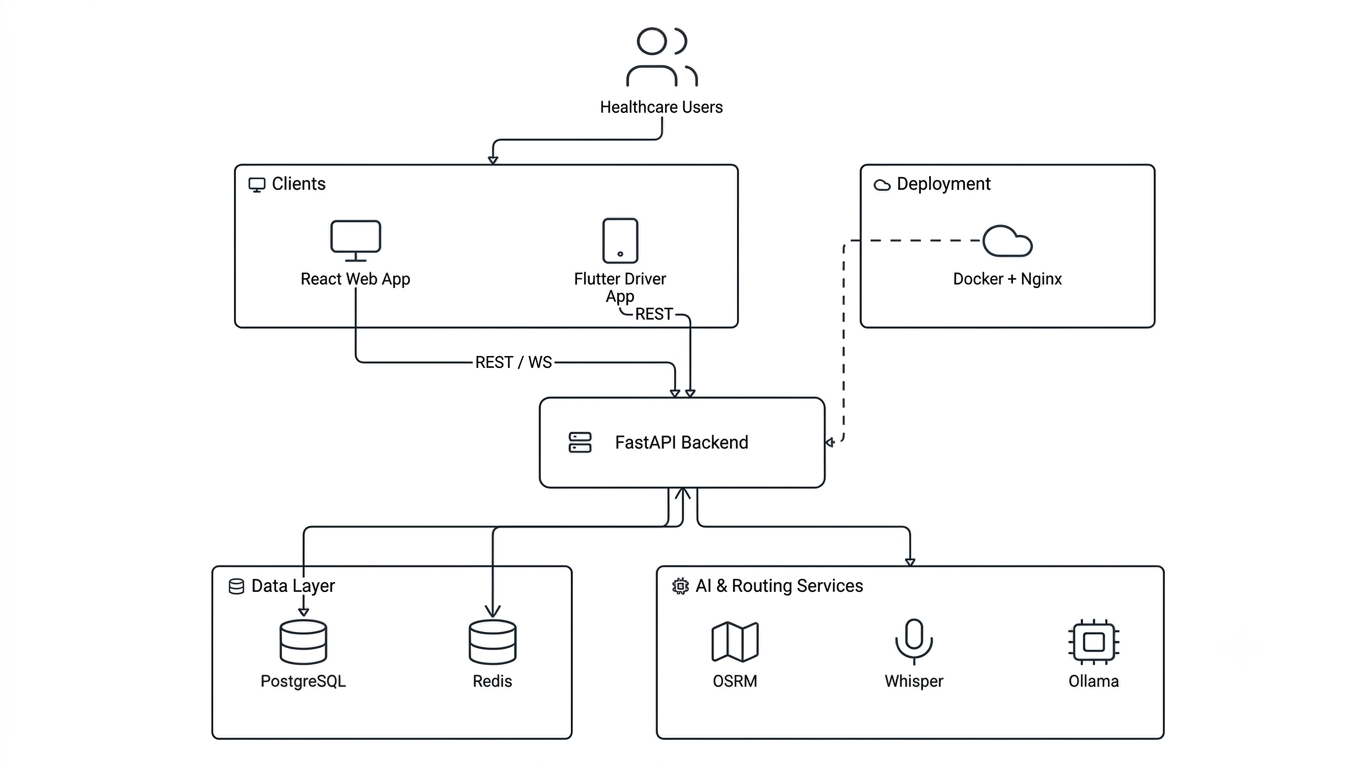
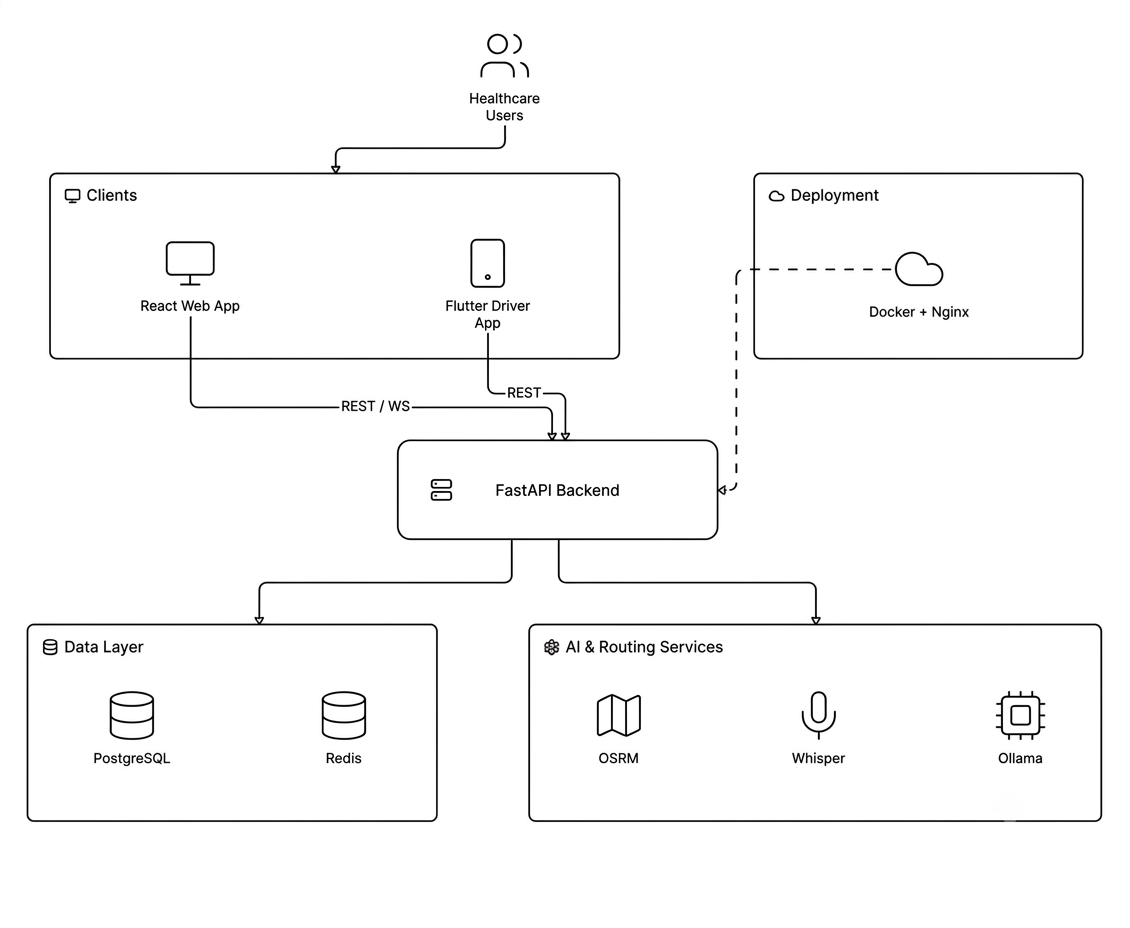
feat: implement request rate limiting for login endpoint and add tests

diff --git a/backend/app/core/rate_limit.py b/backend/app/core/rate_limit.py
@@ -1,0 +1,73 @@
+"""Request rate limiting.
+
+Lives here rather than in ``app.main`` so routers can import the limiter to
+decorate individual endpoints without importing the app itself.
+
+An endpoint decorated with ``@limiter.limit(...)`` must take both ``request:
+Request`` and ``response: Response`` parameters — slowapi reads the caller off
+the first and writes the ``X-RateLimit-*`` headers onto the second, and raises
+at request time if either is missing.
+"""
+from fastapi import Request, Response
+from fastapi.responses import JSONResponse
+from slowapi import Limiter
+from slowapi.errors import RateLimitExceeded
+
+from app.core.config import settings
+
+
+def client_key(request: Request) -> str:
+    """The bucket a request is counted against.
+
+    ``X-Real-IP`` is set by our nginx from the connection's peer address, so a
+    caller cannot forge it — unlike ``X-Forwarded-For``, which arrives carrying
+    whatever the client prepended before nginx appended the real address. Falls
+    back to the socket address when the API is reached directly.
+    """
+    real_ip = request.headers.get("X-Real-IP")
+    if real_ip:
+        return real_ip.strip()
+    return request.client.host if request.client else "unknown"
+
+
+limiter = Limiter(
+    key_func=client_key,
+    # The API runs four uvicorn workers behind nginx; an in-process counter
+    # would give each worker its own allowance and let callers through four
+    # times over, so the counts live in Redis.
+    storage_uri=settings.REDIS_URL,
+    # A Redis outage must not lock clinicians out of an emergency system: fall
+    # back to per-worker in-memory counting, and let the request through if
+    # even that fails.
+    in_memory_fallback_enabled=True,
+    swallow_errors=True,
+    # Send X-RateLimit-* and Retry-After so the client can show a useful wait.
+    headers_enabled=True,
+    # The suite drives many logins through one ASGI client from one address;
+    # counting them would fail unrelated tests once a limit is reached.
+    enabled=settings.ENVIRONMENT != "test",
+)
+
+
+def rate_limit_handler(request: Request, exc: RateLimitExceeded) -> Response:
+    """Answer a throttled request in the same shape as the rest of our errors.
+
+    slowapi's stock handler returns ``{"error": ...}``, which the frontend's
+    error reader doesn't know how to read — it looks for ``detail.message`` —
+    so the user would be shown a raw "status code 429" instead.
+    """
+    response = JSONResponse(
+        status_code=429,
+        content={
+            "detail": {
+                "success": False,
+                "message": "Too many attempts. Please wait a minute and try again.",
+                "error_code": "RATE_LIMITED",
+            }
+        },
+    )
+    # Private, but it is what slowapi's own handler calls to attach
+    # Retry-After and the X-RateLimit-* headers to the rejection.
+    return request.app.state.limiter._inject_headers(
+        response, request.state.view_rate_limit
+    )

diff --git a/backend/tests/test_integration_auth.py b/backend/tests/test_integration_auth.py
@@ -139,3 +139,47 @@ async def test_set_password_completes_first_login(client, user_factory):
     )
     assert relogin.status_code == 200
     assert relogin.json()["access_token"]
+
+
+async def test_login_is_rate_limited_per_caller(client, user_factory):
+    """The limiter is off for the suite (see conftest); switch it on for this
+    one test to prove the cap on ``/login`` actually holds."""
+    from app.core.rate_limit import limiter
+
+    await user_factory(medical_id="MED-7", password="Correct-horse")
+
+    limiter.enabled = True
+    # Fresh addresses so counts left by any earlier run can't affect the result.
+    caller = {"X-Real-IP": "198.51.100.7"}
+    try:
+        codes = [
+            (
+                await client.post(
+                    f"{API}/login",
+                    json={"medical_id": "MED-7", "password": "wrong"},
+                    headers=caller,
+                )
+            ).status_code
+            for _ in range(11)
+        ]
+
+        # Ten attempts are answered (401 — bad password), the eleventh is blocked.
+        assert codes[:10] == [401] * 10
+        assert codes[10] == 429
+
+        blocked = await client.post(
+            f"{API}/login", json={"medical_id": "MED-7"}, headers=caller
+        )
+        assert blocked.status_code == 429
+        assert blocked.json()["detail"]["error_code"] == "RATE_LIMITED"
+        assert blocked.headers["Retry-After"]
+
+        # A different caller is unaffected — one IP cannot lock out a hospital.
+        other = await client.post(
+            f"{API}/login",
+            json={"medical_id": "MED-7", "password": "Correct-horse"},
+            headers={"X-Real-IP": "198.51.100.8"},
+        )
+        assert other.status_code == 200
+    finally:
+        limiter.enabled = False

diff --git a/backend/app/api/auth.py b/backend/app/api/auth.py
@@ -1,7 +1,8 @@
-from fastapi import APIRouter, Depends, Request
+from fastapi import APIRouter, Depends, Request, Response
 from sqlalchemy.ext.asyncio import AsyncSession
 from app.db.session import get_session
 from app.core.permissions import get_current_user
+from app.core.rate_limit import limiter
 from app.services.auth_service import AuthService
 from app.services.audit_service import AuditService
 from app.services.user_service import UserService
@@ -13,11 +14,16 @@ router = APIRouter()
 
 
 @router.post("/login", response_model=TokenResponse)
+@limiter.limit("10/minute")
 async def login(
     payload: LoginRequest,
     request: Request,
+    response: Response,
     session: AsyncSession = Depends(get_session),
 ):
+    """Sign in. Capped at 10 attempts a minute per caller so a stolen medical
+    ID cannot be paired with a guessed password at speed. ``response`` is unused
+    here — the limiter writes the ``X-RateLimit-*`` headers onto it."""
     service = AuthService(session)
     tokens = await service.login(payload)
     if not tokens.requires_password_reset:

diff --git a/backend/app/main.py b/backend/app/main.py
@@ -1,10 +1,9 @@
 from contextlib import asynccontextmanager
 from fastapi import FastAPI, WebSocket, WebSocketDisconnect
 from fastapi.middleware.cors import CORSMiddleware
-from slowapi import Limiter, _rate_limit_exceeded_handler
-from slowapi.util import get_remote_address
 from slowapi.errors import RateLimitExceeded
 from app.core.config import settings
+from app.core.rate_limit import limiter, rate_limit_handler
 from app.api import router
 from app.core.permissions import decode_token
 from app.websocket.manager import ws_manager
@@ -21,8 +20,6 @@ async def lifespan(app: FastAPI):
         await ws_manager.stop()
 
 
-limiter = Limiter(key_func=get_remote_address)
-
 app = FastAPI(
     title="eBuzimaTransfer API",
     version="1.0.0",
@@ -34,7 +31,7 @@ app = FastAPI(
 )
 
 app.state.limiter = limiter
-app.add_exception_handler(RateLimitExceeded, _rate_limit_exceeded_handler)
+app.add_exception_handler(RateLimitExceeded, rate_limit_handler)
 
 app.add_middleware(
     CORSMiddleware,

diff --git a/backend/tests/conftest.py b/backend/tests/conftest.py
@@ -27,6 +27,7 @@ os.environ.setdefault("SECRET_KEY", "test-secret-key-for-unit-tests-only")
 os.environ.setdefault("JWT_ALGORITHM", "HS256")
 os.environ.setdefault("ACCESS_TOKEN_EXPIRE_MINUTES", "60")
 os.environ.setdefault("REFRESH_TOKEN_EXPIRE_DAYS", "7")
+os.environ.setdefault("ENVIRONMENT", "test")
 
 
 # ---------------------------------------------------------------------------
